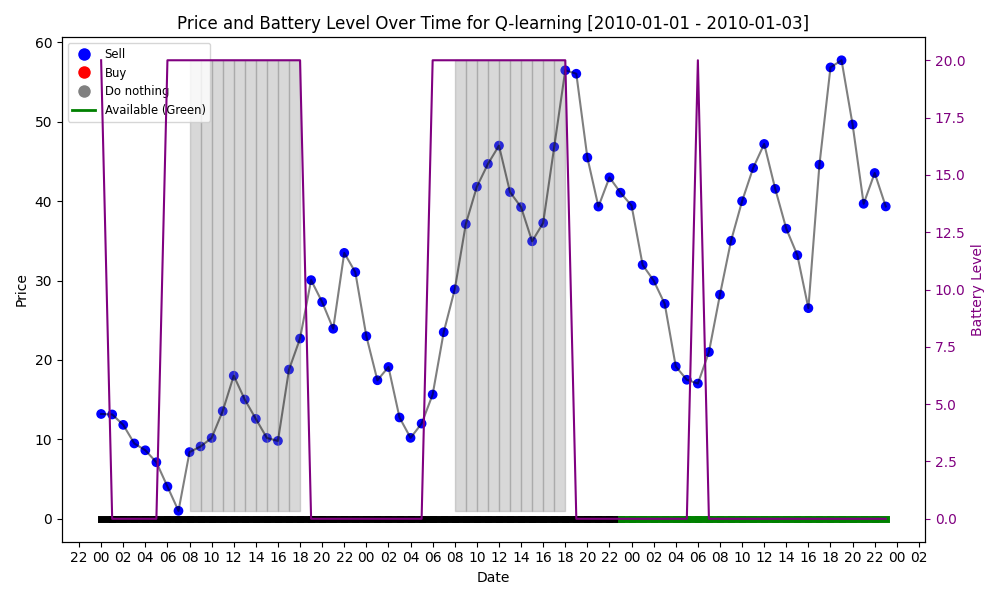
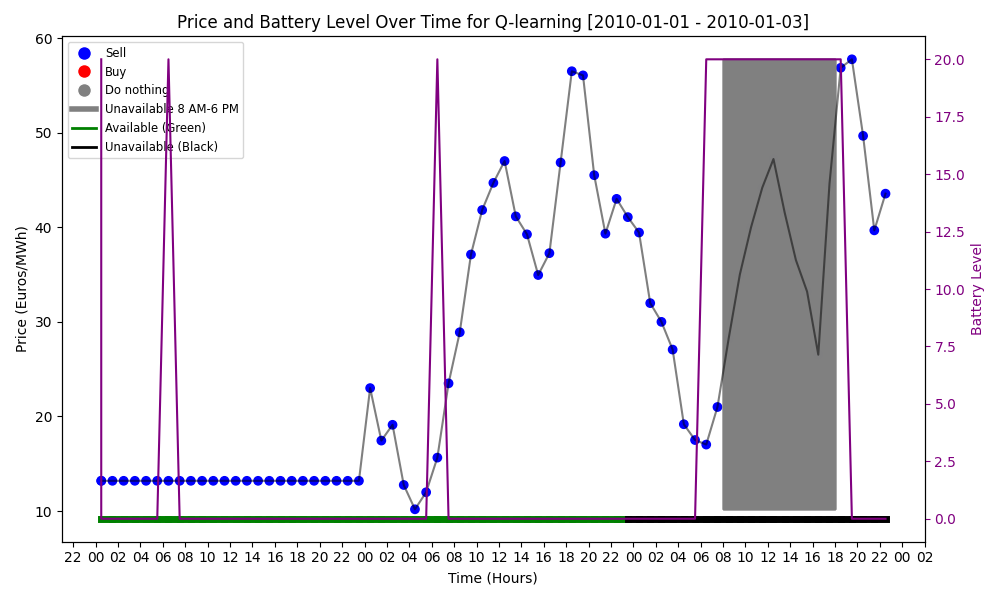
Fix electric car env

diff --git a/ElectricCarEnv.py b/ElectricCarEnv.py
@@ -33,7 +33,7 @@ class ElectricCarEnv(gym.Env):
 
         # Initialize the state
         self.current_step = 0
-        self.time_of_day = 1
+        self.time_of_day = 0
 
     def step(self, action: float) -> Tuple[np.ndarray, float, bool, dict]:
         """ Implements the step function for the environment.
@@ -54,9 +54,12 @@ class ElectricCarEnv(gym.Env):
             self.time_of_day = 1
             # Randomly decide if the car is available for the new day
             self.car_available = np.random.choice([0, 1])
-  
-        action = min(action, self.max_power) if action > 0 else max(action, -self.max_power)
-        
+
+        # Clip the action to the maximum power
+        min_action = min(action, -min(self.max_power, self.max_battery - self.battery_level))
+        max_action = min(action, min(self.max_power, self.battery_level))
+        action = np.clip(action, min_action, max_action)
+
         # From 8AM to 6PM, unavailable cars can't be charged
         if not (8 <= self.time_of_day <= 18 and not self.car_available):
             # Calculate the change in battery level
@@ -70,7 +73,6 @@ class ElectricCarEnv(gym.Env):
             reward = (action * price if action > 0 else 2 * action * price / 0.9) / 1000
         else:
             reward = 0
-
         # After the car returns from 8AM-6PM, the battery level decreases by 20 kWh
         if self.time_of_day == 19 and not self.car_available:
             self.battery_level = max(self.battery_level - 20, self.min_required_battery)
@@ -97,16 +99,22 @@ class ElectricCarEnv(gym.Env):
         # Start with a minimum battery level
         self.battery_level = self.min_required_battery
         # Reset the time of day and current step
-        self.time_of_day = 1
+        self.time_of_day = 0
         self.current_step = 0
         # Generate a random car availability
         self.car_available = np.random.choice([0, 1])
         # Initialize the state
-        self.state = np.array([self.battery_level, self.time_of_day, self.car_available])
+        self.state = np.array([self.battery_level, 1, self.car_available])
 
         return self.state
 
-    def get_current_price(self) -> float:
+    def get_current_price(self, first = False) -> float:
         """ Returns the current electricity price.
+
+        Args:
+            first (bool, optional): Whether to return the first price of the first day. Defaults to False.
+        
+        Returns:
+            float: The current electricity price.
         """
-        return self.data.iloc[self.current_step]["H" + str(self.time_of_day)]
+        return self.data.iloc[self.current_step]["H" + ("1" if first else str(self.time_of_day))]

diff --git a/baseline.py b/baseline.py
@@ -34,7 +34,7 @@ def validate_agent(env: Env, agent: Type[QLearningAgent or BuyLowSellHigh or EMA
         # Loop until the episode is done
         while not done:
             # Choose an action
-            action = agent.choose_action(state) if rl else agent.choose_action(env.get_current_price(), state)
+            action = agent.choose_action(state) if rl else agent.choose_action(env.get_current_price(_['step'] == 0), state)
             # Get datetime
             date = datetime.strptime(f"{env.data.iloc[_['step']]['date']} {int(state[1])-1:02d}:30:00", "%Y-%m-%d %H:%M:%S")
             # Log current state and action if last episode
@@ -42,7 +42,7 @@ def validate_agent(env: Env, agent: Type[QLearningAgent or BuyLowSellHigh or EMA
                 log_env['battery'].append(state[0])
                 log_env['availability'].append(state[2])
                 log_env['action'].append(action)
-                log_env['price'].append(env.get_current_price())
+                log_env['price'].append(env.get_current_price(_['step'] == 0))
                 log_env['date'].append(date)                
             # Take a step
             state, reward, done, _ = env.step(action)
@@ -113,7 +113,7 @@ def process_command(env: Env) -> Tuple[QLearningAgent or BuyLowSellHigh or EMA, 
     elif sys.argv[1] == 'ema':
         return ema(env), False, "EMA"
     else: 
-        return "all", True
+        return "all", True, "All"
         
 # Initialize the environment
 env = ElectricCarEnv()
@@ -131,7 +131,7 @@ if test_agent == "all":
 
     # Validate BuyLowSellHigh Agent
     blsh_agent = buylowsellhigh(env)
-    blsh_performance, blsh_log_env = validate_agent(env, blsh_agent, rl)
+    blsh_performance, blsh_log_env = validate_agent(env, blsh_agent)
     print(f"Average reward on validation set for blsh: {blsh_performance}")
 
     # Validate EMA Agent
@@ -143,7 +143,6 @@ if test_agent == "all":
 
 else:
     test_performance, log_env = validate_agent(env, test_agent, rl)
-
-# Visualize the battery level
-visualize_bat(log_env, algorithm)
-print(f"Average reward on validation set: {test_performance}")
+    # Visualize the battery level
+    visualize_bat(log_env, algorithm)
+    print(f"Average reward on validation set: {test_performance}")

diff --git a/pg_train.py b/pg_train.py
@@ -1,8 +1,6 @@
 import torch.nn as nn
-import torch.nn.functional as F
 import torch
 import torch.optim as optim
-from torch.distributions import Categorical
 from gym import Env
 from ElectricCarEnv import ElectricCarEnv
 import random
@@ -62,7 +60,7 @@ def compute_returns(rewards: list, gamma=0.99) -> torch.Tensor:
     return torch.tensor(returns)
 
 
-def train_policy_gradient(env: Env, policy_network: LSTM_PolicyNetwork, episodes=10, lr=0.0001, gamma=0.6, epsilon=0.2, sequence_length=12):
+def train_policy_gradient(env: Env, policy_network: LSTM_PolicyNetwork, episodes=10, lr=0.0001, gamma=0.99, epsilon=1, e_decay=0.995, sequence_length=12):
     """ Trains a policy network using the policy gradient algorithm.
 
     Args:
@@ -72,6 +70,8 @@ def train_policy_gradient(env: Env, policy_network: LSTM_PolicyNetwork, episodes
         lr (float, optional): The learning rate. Defaults to 0.01.
         gamma (float, optional): The discount factor. Defaults to 0.99.
         epsilon (float, optional): The probability of taking a random action. Defaults to 0.1.
+        e_decay (float, optional): The decay rate of epsilon. Defaults to 0.995.
+        sequence_length (int, optional): The length of the state sequence. Defaults to 12.
     """
     # Initialize the optimizer
     optimizer = optim.Adam(policy_network.parameters(), lr=lr)
@@ -98,6 +98,8 @@ def train_policy_gradient(env: Env, policy_network: LSTM_PolicyNetwork, episodes
                 # Take a random action
                 action = torch.tensor(np.array([env.action_space.sample()]))
                 use_policy = False
+                # Decay epsilon
+                epsilon *= e_decay
             else:
                 # Otherwise use the policy network to predict the next action
                 action_mean, action_std, hidden_state = policy_network(state_sequence, hidden_state)
